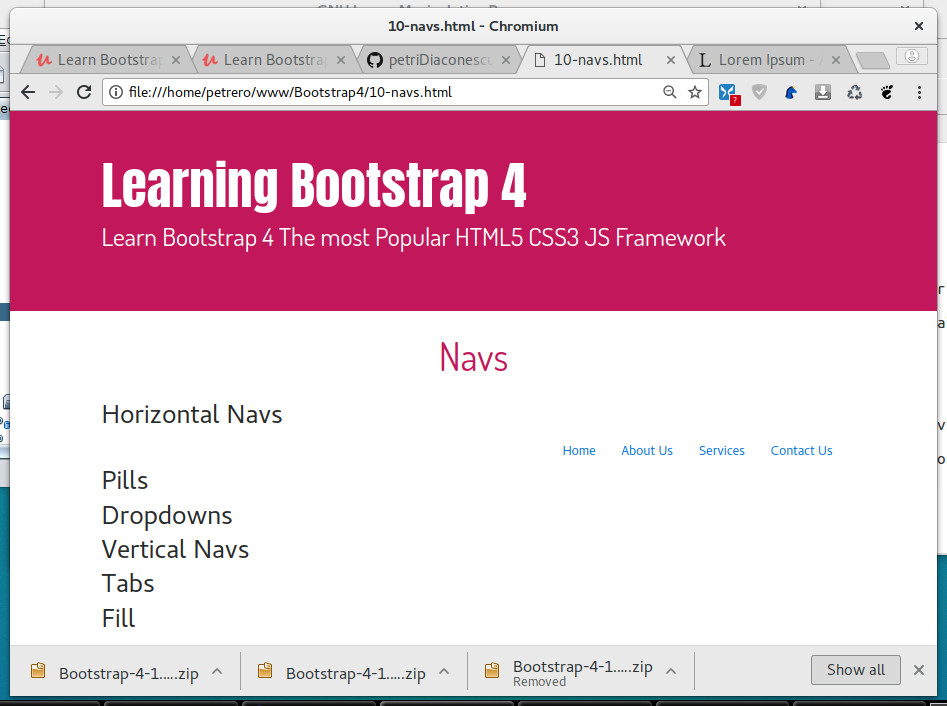
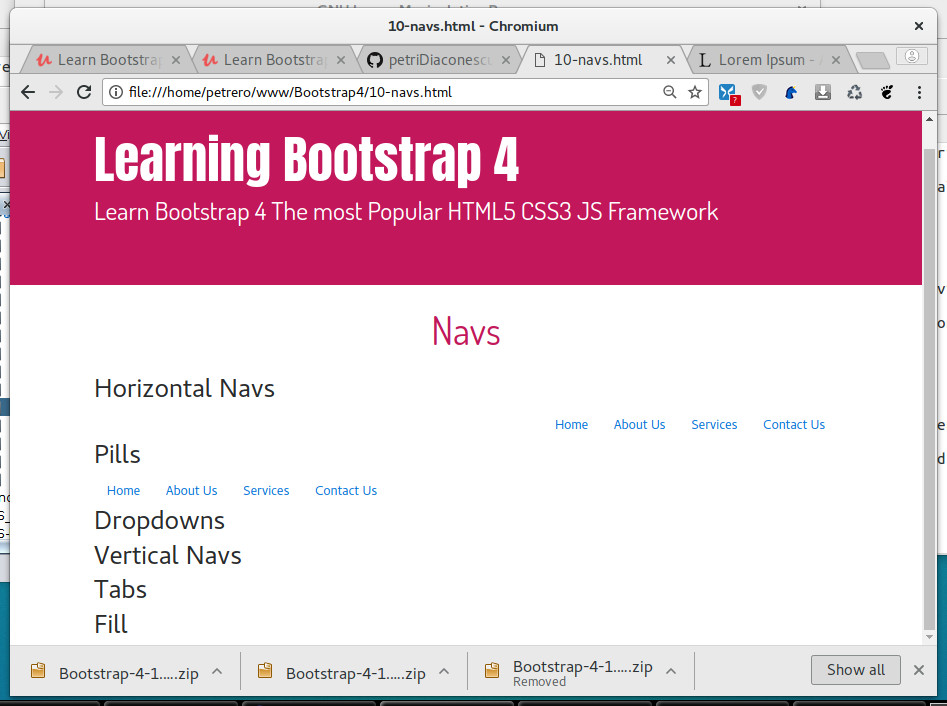
Pills menu looks very symilar now to the navigation menu above.

diff --git a/10-navs.html b/10-navs.html
@@ -46,7 +46,22 @@
          </nav>
 
          <h2>Pills</h2>
-
+         <nav>
+           <ul class="nav nav-pills">
+             <li class="nav-item">
+                 <a class="nav-link" href="#">Home</a>
+             </li>
+             <li class="nav-item">
+                 <a class="nav-link" href="#">About Us</a>
+             </li>
+             <li class="nav-item">
+                 <a class="nav-link" href="#">Services</a>
+             </li>
+             <li class="nav-item">
+                 <a class="nav-link" href="#">Contact Us</a>
+             </li>
+           </ul>
+         </nav>
 
          <h2>Dropdowns</h2>
 
